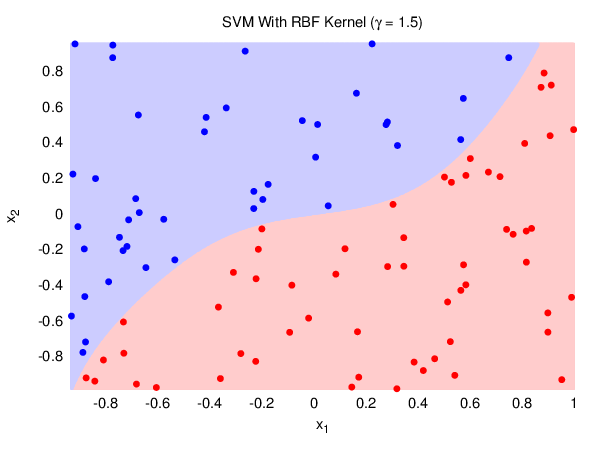
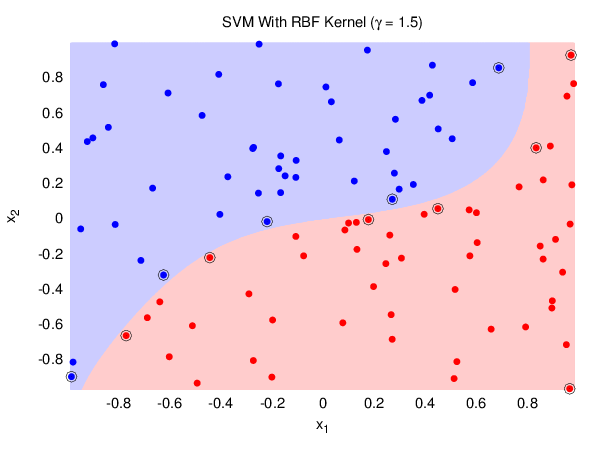
Highlighted the support vectors.

diff --git a/week-09-10/src/plot_rbf_kernel.m b/week-09-10/src/plot_rbf_kernel.m
@@ -49,5 +49,9 @@ neg = find (y < 0);
 plot (X(pos,1), X(pos,2), "bo", "MarkerSize", 3, "MarkerFaceColor", "b");
 plot (X(neg,1), X(neg,2), "ro", "MarkerSize", 3, "MarkerFaceColor", "r");
 
+% Highlights the support vectors
+p = X(model.sv_indices,:);
+plot (p(:, 1), p(:, 2), "ko", "MarkerSize", 5);
+
 % Uncomment the following line in order to save the plot to a PNG file
 % saveplot (h, 4, 3, "../img/plot_rbf_kernel.png");
